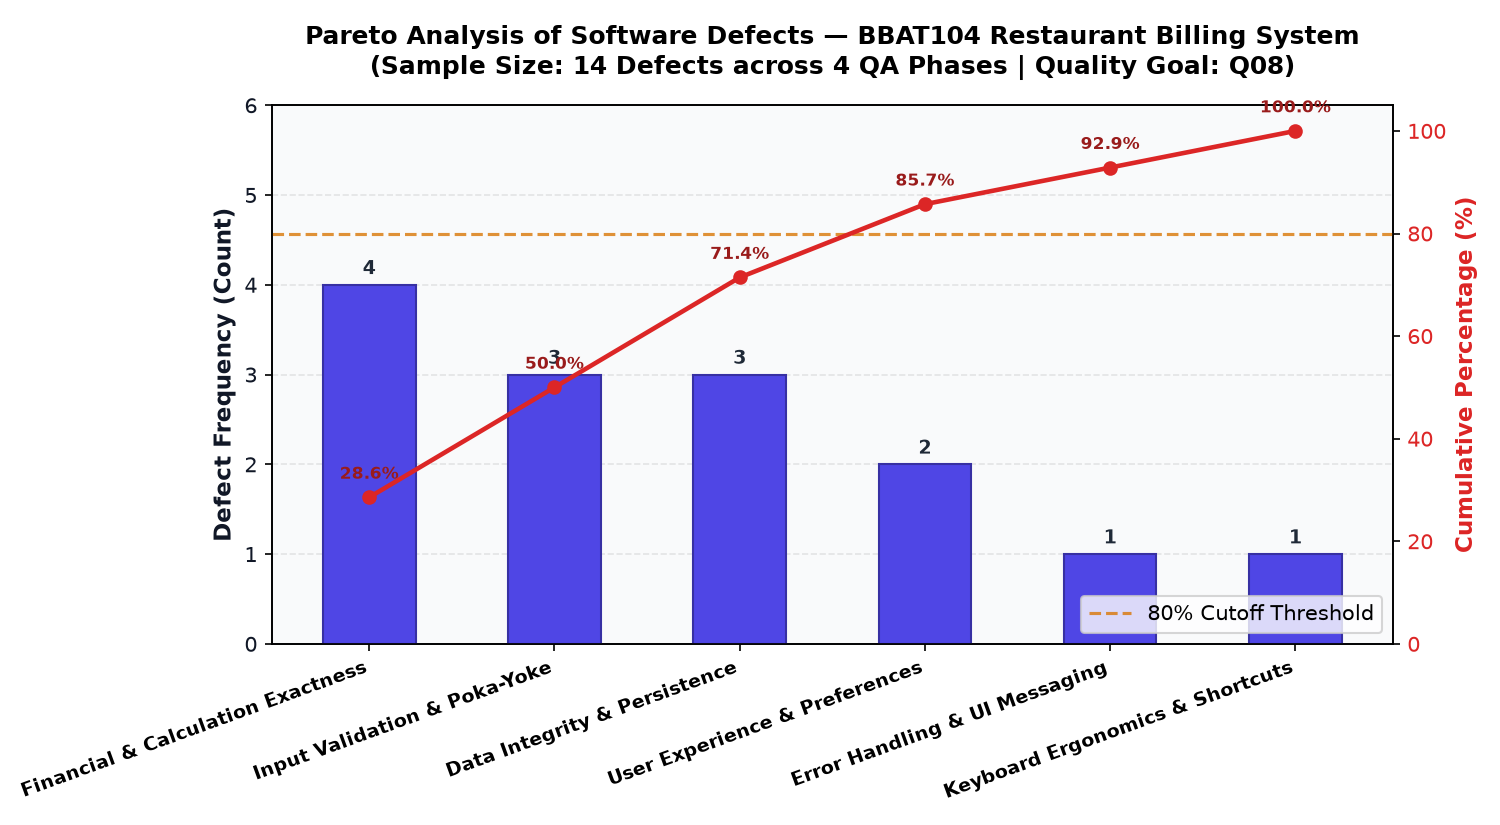
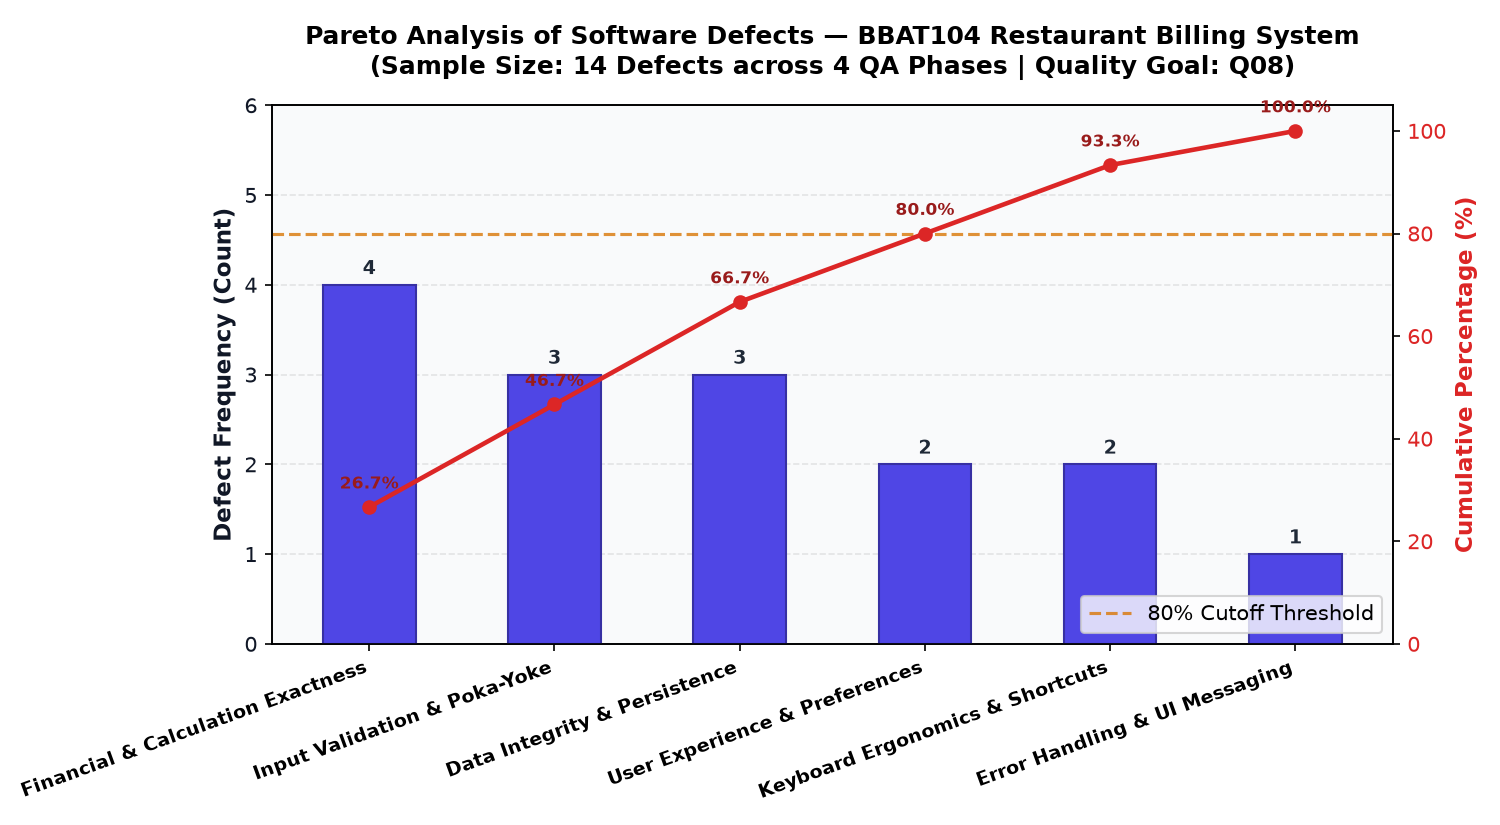
feat(shortcuts): add Poka-Yoke focus guard, accelerator tests, and quality log updates (Q08-F4)

diff --git a/tests/test_shortcuts.py b/tests/test_shortcuts.py
@@ -1,0 +1,88 @@
+"""Unit tests for keyboard shortcuts, input focus guards, and design system palettes (Q08-F3 & Q08-F4)."""
+import pytest
+from unittest.mock import MagicMock
+from config.settings import THEME_PALETTES, DEFAULT_THEME
+from ui.main_window import MainWindow
+
+
+def test_theme_palette_keys_completeness():
+    """Verifies both light (blue-sidebar/white-workspace) and dark palettes define all required semantic tokens."""
+    required_keys = [
+        "sidebar_bg",
+        "sidebar_hover",
+        "sidebar_active",
+        "sidebar_text",
+        "header_bg",
+        "header_text",
+        "bg_primary",
+        "bg_secondary",
+        "bg_card",
+        "heading",
+        "text_primary",
+        "text_secondary",
+        "accent",
+        "accent_hover",
+        "success",
+        "warning",
+        "danger",
+        "border",
+    ]
+    for theme_name in ["light", "dark"]:
+        assert theme_name in THEME_PALETTES
+        palette = THEME_PALETTES[theme_name]
+        for key in required_keys:
+            assert key in palette, f"Key '{key}' missing from '{theme_name}' palette"
+
+    # Verify light theme uses user-specified navy sidebar and white workspace
+    light = THEME_PALETTES["light"]
+    assert light["sidebar_bg"].upper() == "#173B70"
+    assert light["bg_primary"].upper() == "#FFFFFF"
+    assert light["heading"].upper() == "#173B70"
+    assert light["accent"].upper() == "#2563EB"
+
+
+def test_default_theme_is_light():
+    """Verifies default theme is light mode with the professional blue sidebar."""
+    assert DEFAULT_THEME == "light"
+
+
+def test_can_trigger_shortcut_guard():
+    """Poka-Yoke verification: Ensures shortcut accelerators are prevented when user is editing text inputs."""
+    # Create a mock MainWindow instance without invoking full Tkinter loop
+    mw = object.__new__(MainWindow)
+
+    # Case 1: No focused widget -> shortcut should trigger
+    mock_toplevel = MagicMock()
+    mock_toplevel.focus_get.return_value = None
+    mw.winfo_toplevel = MagicMock(return_value=mock_toplevel)
+    assert mw._can_trigger_shortcut() is True
+
+    # Case 2: Non-entry widget focused (e.g. Frame, Label, Button) -> shortcut should trigger
+    mock_button = MagicMock()
+    mock_button.winfo_class.return_value = "Button"
+    mock_button.master = None
+    mock_toplevel.focus_get.return_value = mock_button
+    assert mw._can_trigger_shortcut() is True
+
+    # Case 3: Standard Tkinter Entry focused -> shortcut MUST be blocked
+    mock_entry = MagicMock()
+    mock_entry.winfo_class.return_value = "Entry"
+    mock_entry.master = None
+    mock_toplevel.focus_get.return_value = mock_entry
+    assert mw._can_trigger_shortcut() is False
+
+    # Case 4: Standard Tkinter Text/Textbox focused -> shortcut MUST be blocked
+    mock_text = MagicMock()
+    mock_text.winfo_class.return_value = "Text"
+    mock_text.master = None
+    mock_toplevel.focus_get.return_value = mock_text
+    assert mw._can_trigger_shortcut() is False
+
+    # Case 5: CustomTkinter CTkEntry internal canvas/entry focused -> shortcut MUST be blocked
+    mock_ctk_inner = MagicMock()
+    mock_ctk_inner.winfo_class.return_value = "Entry"
+    mock_ctk_parent = MagicMock()
+    mock_ctk_parent.winfo_class.return_value = "CTkEntry"
+    mock_ctk_inner.master = mock_ctk_parent
+    mock_toplevel.focus_get.return_value = mock_ctk_inner
+    assert mw._can_trigger_shortcut() is False
